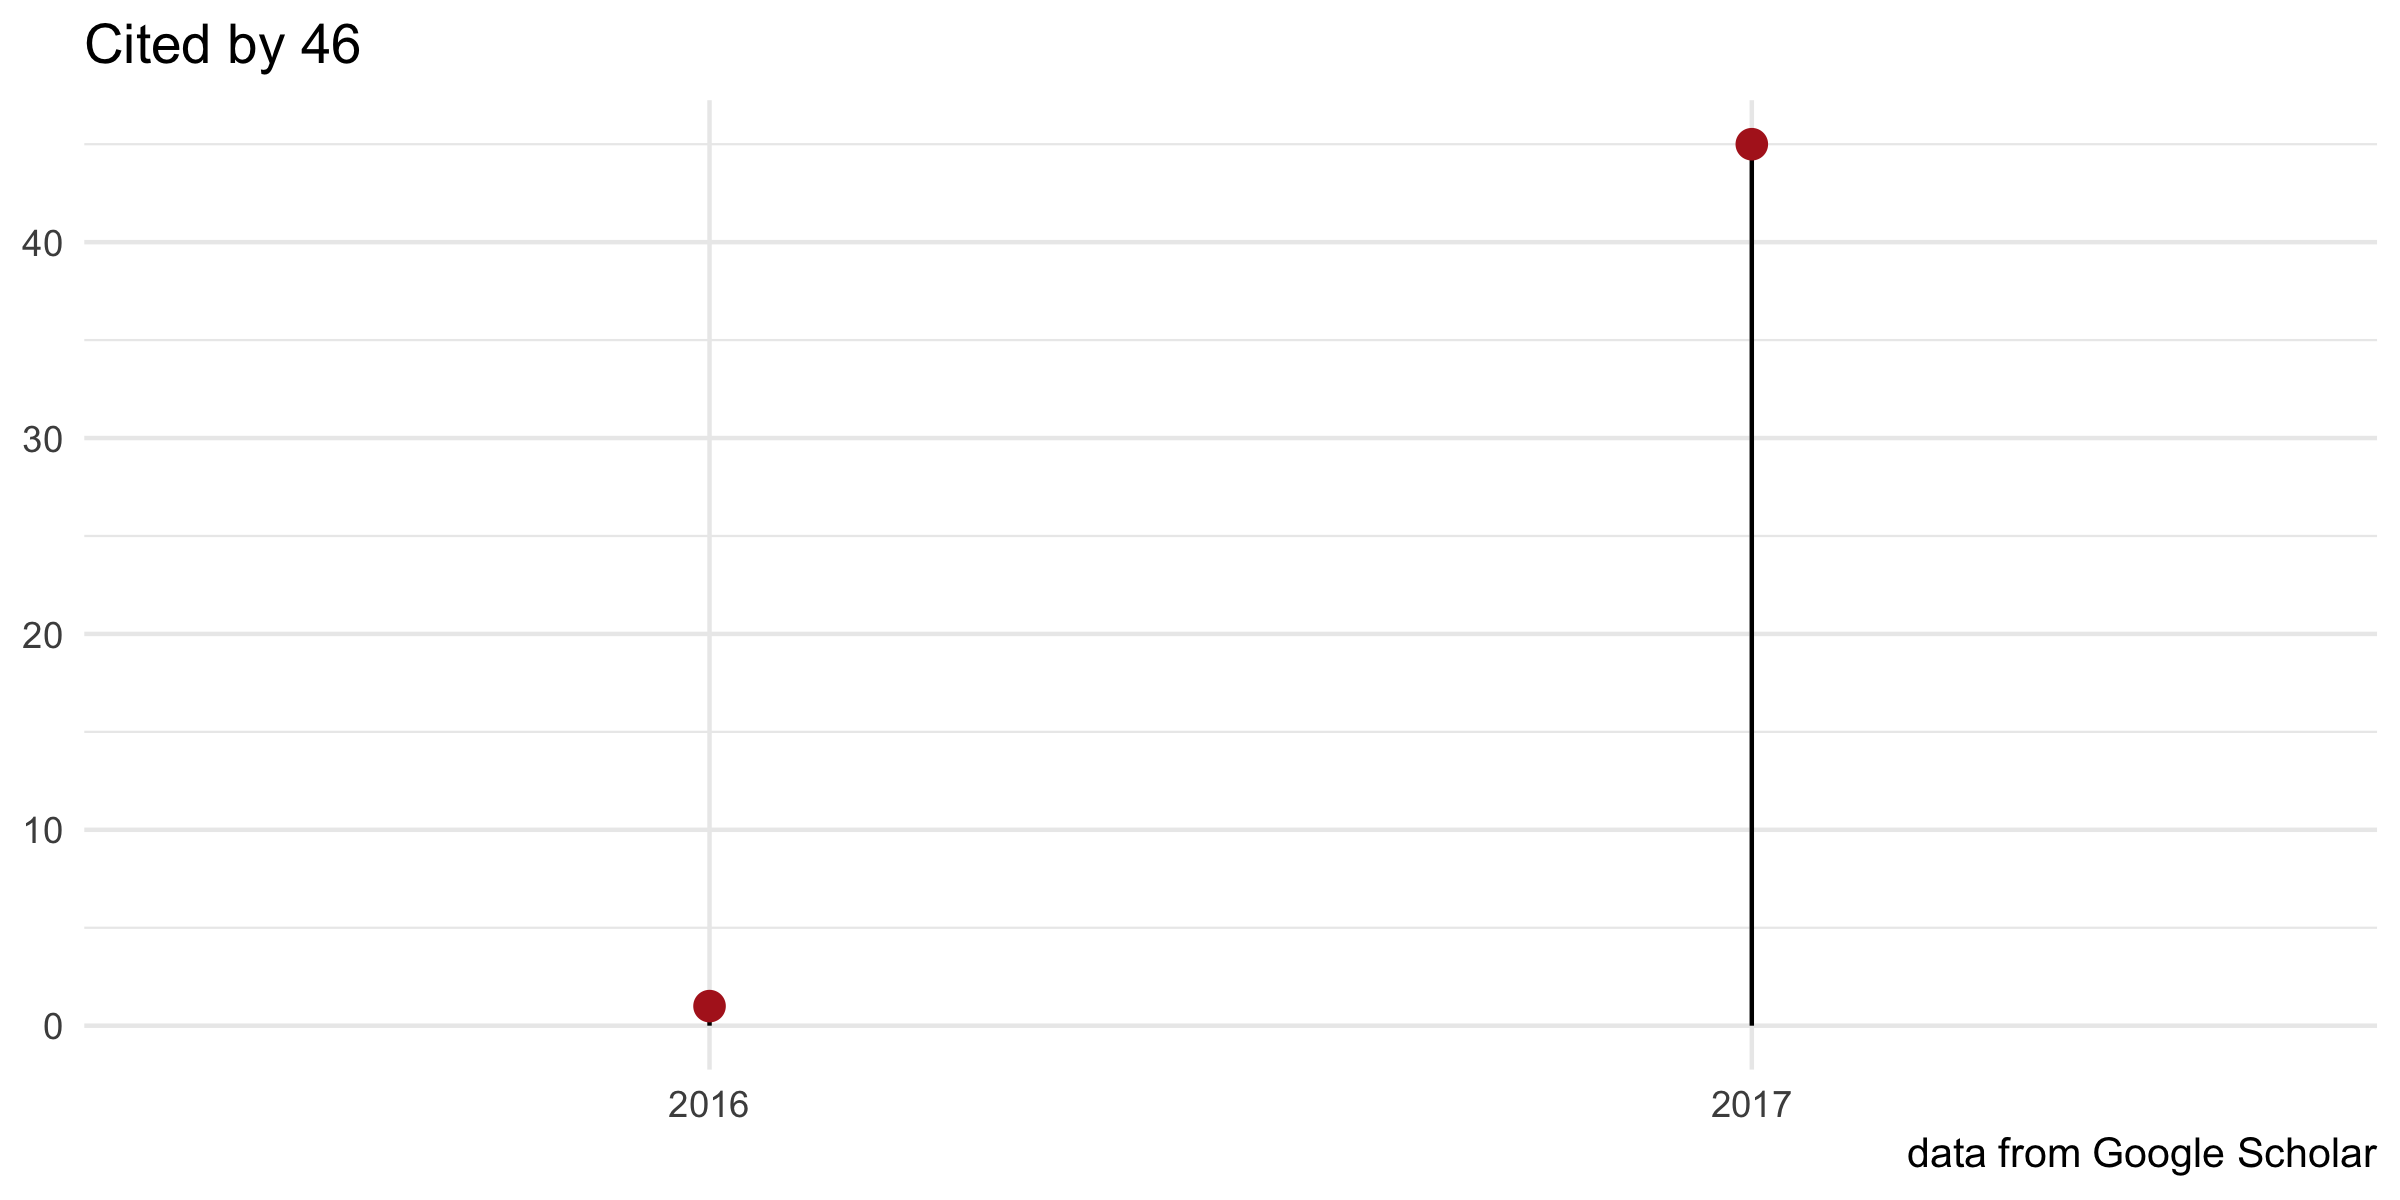
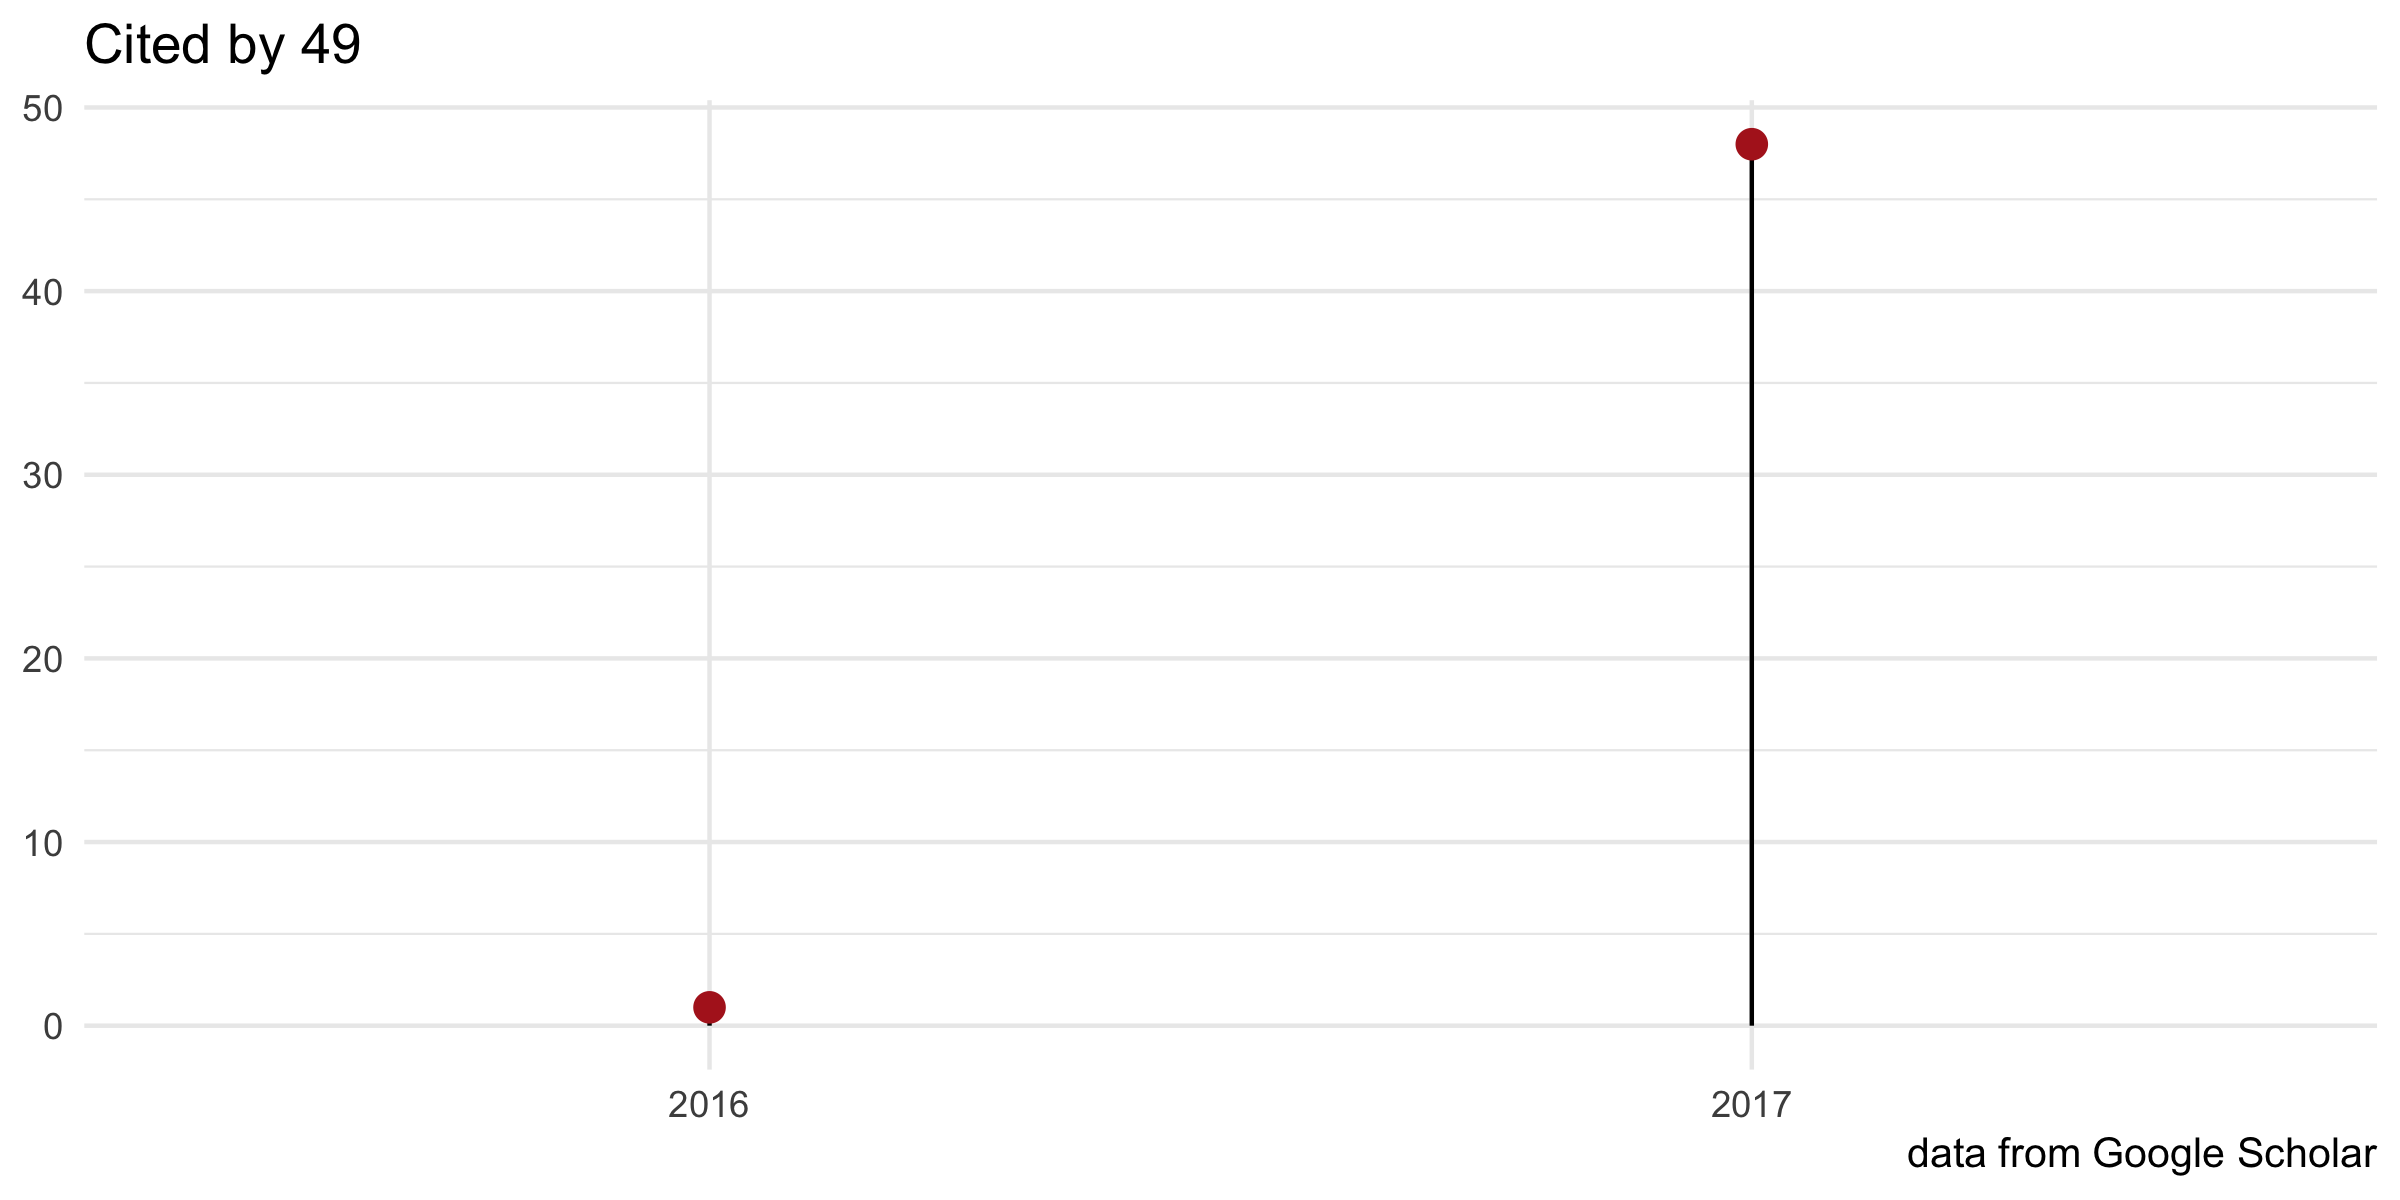
test

diff --git a/README.md b/README.md
@@ -7,14 +7,14 @@ ggtree: an R package for visualization and annotation of phylogenetic trees with
 [![releaseVersion](https://img.shields.io/badge/release%20version-1.10.0-green.svg?style=flat)](https://bioconductor.org/packages/ggtree)
 [![develVersion](https://img.shields.io/badge/devel%20version-1.11.1-green.svg?style=flat)](https://github.com/guangchuangyu/ggtree)
 [![Bioc](http://www.bioconductor.org/shields/years-in-bioc/ggtree.svg)](https://www.bioconductor.org/packages/devel/bioc/html/ggtree.html#since)
-[![total](https://img.shields.io/badge/downloads-21387/total-blue.svg?style=flat)](https://bioconductor.org/packages/stats/bioc/ggtree)
+[![total](https://img.shields.io/badge/downloads-21527/total-blue.svg?style=flat)](https://bioconductor.org/packages/stats/bioc/ggtree)
 [![month](https://img.shields.io/badge/downloads-1156/month-blue.svg?style=flat)](https://bioconductor.org/packages/stats/bioc/ggtree)
 
 [![Project Status: Active - The project has reached a stable, usable
 state and is being actively
 developed.](http://www.repostatus.org/badges/latest/active.svg)](http://www.repostatus.org/#active)
 [![codecov](https://codecov.io/gh/GuangchuangYu/ggtree/branch/master/graph/badge.svg)](https://codecov.io/gh/GuangchuangYu/ggtree)
-[![Last-changedate](https://img.shields.io/badge/last%20change-2017--11--20-green.svg)](https://github.com/GuangchuangYu/ggtree/commits/master)
+[![Last-changedate](https://img.shields.io/badge/last%20change-2017--11--24-green.svg)](https://github.com/GuangchuangYu/ggtree/commits/master)
 [![GitHub
 forks](https://img.shields.io/github/forks/GuangchuangYu/ggtree.svg)](https://github.com/GuangchuangYu/ggtree/network)
 [![GitHub
@@ -59,8 +59,8 @@ their covariates and other associated data. ***Methods in Ecology and
 Evolution***. 2017, 8(1):28-36.
 
 [![doi](https://img.shields.io/badge/doi-10.1111/2041--210X.12628-green.svg?style=flat)](http://dx.doi.org/10.1111/2041-210X.12628)
-[![Altmetric](https://img.shields.io/badge/Altmetric-336-green.svg?style=flat)](https://www.altmetric.com/details/10533079)
-[![citation](https://img.shields.io/badge/cited%20by-46-green.svg?style=flat)](https://scholar.google.com.hk/scholar?oi=bibs&hl=en&cites=7268358477862164627)
+[![Altmetric](https://img.shields.io/badge/Altmetric-335-green.svg?style=flat)](https://www.altmetric.com/details/10533079)
+[![citation](https://img.shields.io/badge/cited%20by-49-green.svg?style=flat)](https://scholar.google.com.hk/scholar?oi=bibs&hl=en&cites=7268358477862164627)
 
 ------------------------------------------------------------------------
 
@@ -71,7 +71,7 @@ Evolution***. 2017, 8(1):28-36.
 ### Download stats
 
 [![download](http://www.bioconductor.org/shields/downloads/ggtree.svg)](https://bioconductor.org/packages/stats/bioc/ggtree)
-[![total](https://img.shields.io/badge/downloads-21387/total-blue.svg?style=flat)](https://bioconductor.org/packages/stats/bioc/ggtree)
+[![total](https://img.shields.io/badge/downloads-21527/total-blue.svg?style=flat)](https://bioconductor.org/packages/stats/bioc/ggtree)
 [![month](https://img.shields.io/badge/downloads-1156/month-blue.svg?style=flat)](https://bioconductor.org/packages/stats/bioc/ggtree)
 
 <img src="docs/images/dlstats.png" width="890"/>
